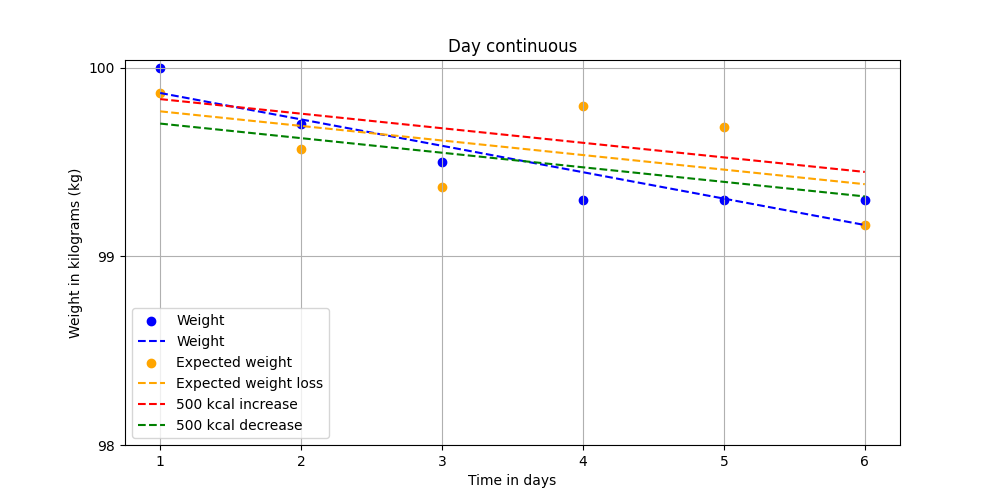
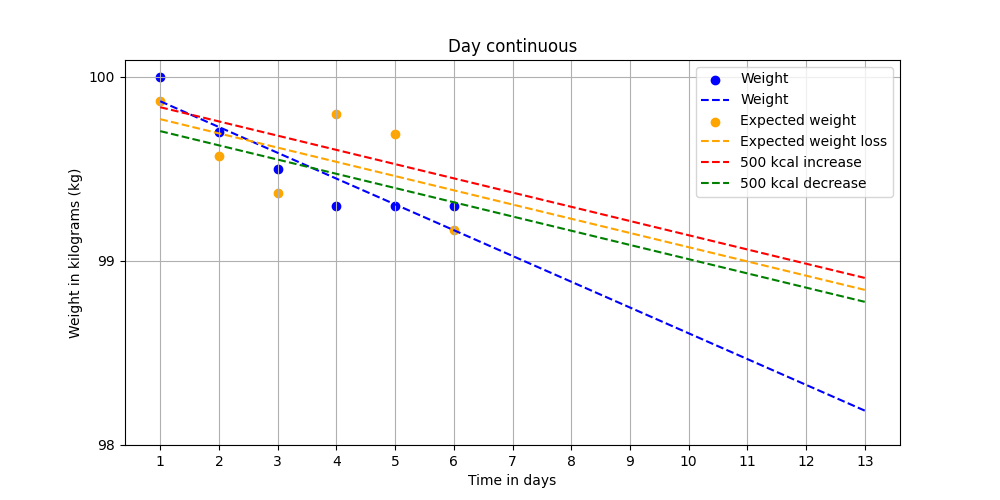
Graphs now extend 7 days beyond data points. Trend lines now extend beyond data points.

diff --git a/src/plot_graph.py b/src/plot_graph.py
@@ -3,19 +3,22 @@ import matplotlib.pyplot as plt
 import numpy as np
 
 def plot_graph(title, weights, predictions, increases, decreases, days, labels, output):
-
+    
     # Create a figure
     plot = plt.figure(figsize=(10, 5))
 
     # Plot the data points for weights
     plt.scatter(days, weights, label='Weight', color='blue')
 
+    # Extend the range of x-values for trend lines
+    extended_days = np.arange(min(days), max(days) + 8, 1)
+
     # Calculate the trend line for weights using numpy's polyfit
     z_weights = np.polyfit(days, weights, 1)
     p_weights = np.poly1d(z_weights)
 
     # Plot the trend line for weights
-    plt.plot(days, p_weights(days), "--", label='Weight', color='blue')
+    plt.plot(extended_days, p_weights(extended_days), "--", label='Weight', color='blue')
 
     # Plot the data points for predictions
     plt.scatter(days, predictions, label='Expected weight', color='orange')
@@ -25,7 +28,7 @@ def plot_graph(title, weights, predictions, increases, decreases, days, labels, 
     p_predictions = np.poly1d(z_predictions)
 
     # Plot the trend line for predictions
-    plt.plot(days, p_predictions(days), "--", label='Expected weight loss', color='orange')
+    plt.plot(extended_days, p_predictions(extended_days), "--", label='Expected weight loss', color='orange')
 
     # Plot the data points for increases
     # plt.scatter(days, increases, label='Increase Data Points', color='red', marker='^')
@@ -35,7 +38,7 @@ def plot_graph(title, weights, predictions, increases, decreases, days, labels, 
     p_increases = np.poly1d(z_increases)
 
     # Plot the trend line for increases
-    plt.plot(days, p_increases(days), "--", label='500 kcal increase', color='red')
+    plt.plot(extended_days, p_increases(extended_days), "--", label='500 kcal increase', color='red')
 
     # Plot the data points for decreases
     # plt.scatter(days, decreases, label='Decrease Data Points', color='green', marker='v')
@@ -45,7 +48,7 @@ def plot_graph(title, weights, predictions, increases, decreases, days, labels, 
     p_decreases = np.poly1d(z_decreases)
 
     # Plot the trend line for decreases
-    plt.plot(days, p_decreases(days), "--", label='500 kcal decrease',  color='green')
+    plt.plot(extended_days, p_decreases(extended_days), "--", label='500 kcal decrease',  color='green')
 
     # Set plot title and labels
     plt.title(f'Day {title}')
@@ -55,7 +58,7 @@ def plot_graph(title, weights, predictions, increases, decreases, days, labels, 
     # Set grid and y-axis inversion
     plt.grid(axis='both')
     plt.yticks(range(min([int(n) for n in weights]) - 1, max([int(n) for n in weights]) + 1, 1))
-    plt.xticks(range(min(days), max(days) + 1, 1))
+    plt.xticks(range(min(days), max(days) + 8, 1))
 
     # Add legend
     plt.legend()
